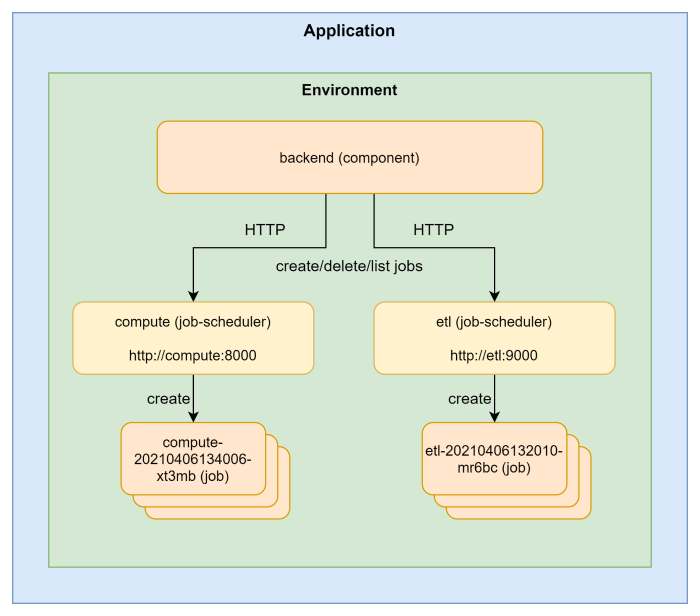
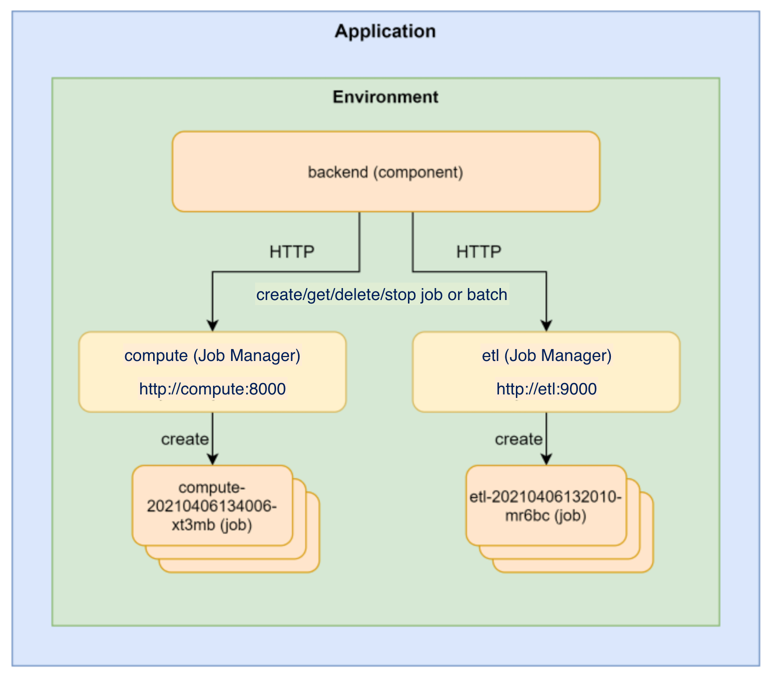
Replaced job scheduler to manager

diff --git a/public-site/docs/src/guides/jobs/configure-jobs.md b/public-site/docs/src/guides/jobs/configure-jobs.md
@@ -81,7 +81,7 @@ The compute job in the example above has `payload.path` set to `/compute/args`. 
 
 ### resources
 
-The resource requirement for a job can be sent in the request body to the job scheduler as a JSON document with an element named `resources`.
+The resource requirement for a job can be sent in the request body to the job manager as a JSON document with an element named `resources`.
 The content of the resources will be used to set the resource definition for the job [`radixconfig.yaml`](../../references/reference-radix-config/#resources-common).
 The data type of the `resources` is of type `ResourceRequirements` an requires this specific format.
 
@@ -89,7 +89,7 @@ The etl job in the example above has `resource` configured.
 
 ### node
 
-The node requirerement for a job can be sent in the request body to the job scheduler as a JSON document with an element named `node`.
+The node requirerement for a job can be sent in the request body to the job manager as a JSON document with an element named `node`.
 The content of the node will be used to set the node definition for the job [`radixconfig.yaml`](../../references/reference-radix-config/#node).
 The data type of the `node` is of type `RadixNode` an requires this specific format.
 
@@ -97,12 +97,12 @@ The etl job in the example above has `node` configured.
 
 ### timeLimitSeconds
 
-The maximum running time for a job can be sent in the request body to the job scheduler as a JSON document with an element named `timeLimitSeconds`.
+The maximum running time for a job can be sent in the request body to the job manager as a JSON document with an element named `timeLimitSeconds`.
 
-The etl job in the example above has `timeLimitSeconds` configured in its [`radixconfig.yaml`](../../references/reference-radix-config/#timelimitseconds). If a new job is sent to the job scheduler without an element `timeLimitSeconds`, it will default to the value specified in radixconfig.yaml. If no value is specified in radixconfig.yaml, it will default to 43200 (12 hours).
+The etl job in the example above has `timeLimitSeconds` configured in its [`radixconfig.yaml`](../../references/reference-radix-config/#timelimitseconds). If a new job is sent to the job manager without an element `timeLimitSeconds`, it will default to the value specified in radixconfig.yaml. If no value is specified in radixconfig.yaml, it will default to 43200 (12 hours).
 
 ### backoffLimit
 
-The maximum number of restarts if the job fails can be sent in the request body to the job scheduler as a JSON document with an element named `backoffLimit`.
+The maximum number of restarts if the job fails can be sent in the request body to the job manager as a JSON document with an element named `backoffLimit`.
 
-The etl job in the example above has `backoffLimit` configured in its [`radixconfig.yaml`](../../references/reference-radix-config/#backofflimit). If a new job is sent to the job scheduler without an element `backoffLimit`, it will default to the value specified in radixconfig.yaml.
+The etl job in the example above has `backoffLimit` configured in its [`radixconfig.yaml`](../../references/reference-radix-config/#backofflimit). If a new job is sent to the job manager without an element `backoffLimit`, it will default to the value specified in radixconfig.yaml.

diff --git a/public-site/docs/src/guides/jobs/jobs-in-web-console.md b/public-site/docs/src/guides/jobs/jobs-in-web-console.md
@@ -6,7 +6,7 @@ next: openapi-swagger
 
 ## Managing Jobs in Web Console
 
-Batches and jobs can be found in the Web console under the "Batches" and "Jobs" tabs. Job scheduler manager pod status and its log can be found in the "Job manager" section
+Batches and jobs can be found in the Web console under the "Batches" and "Jobs" tabs. Job manager pod status and its log can be found in the "Job manager" section
 ![Batch job status](./batch-job-manager-status.png)
 * It shows batch and job states. When all jobs in a batch are completed, the batch is completed. If any job fails, the batch is failed. 
   ![Batch and job statuses](./batch-and-job-statuses.png)
